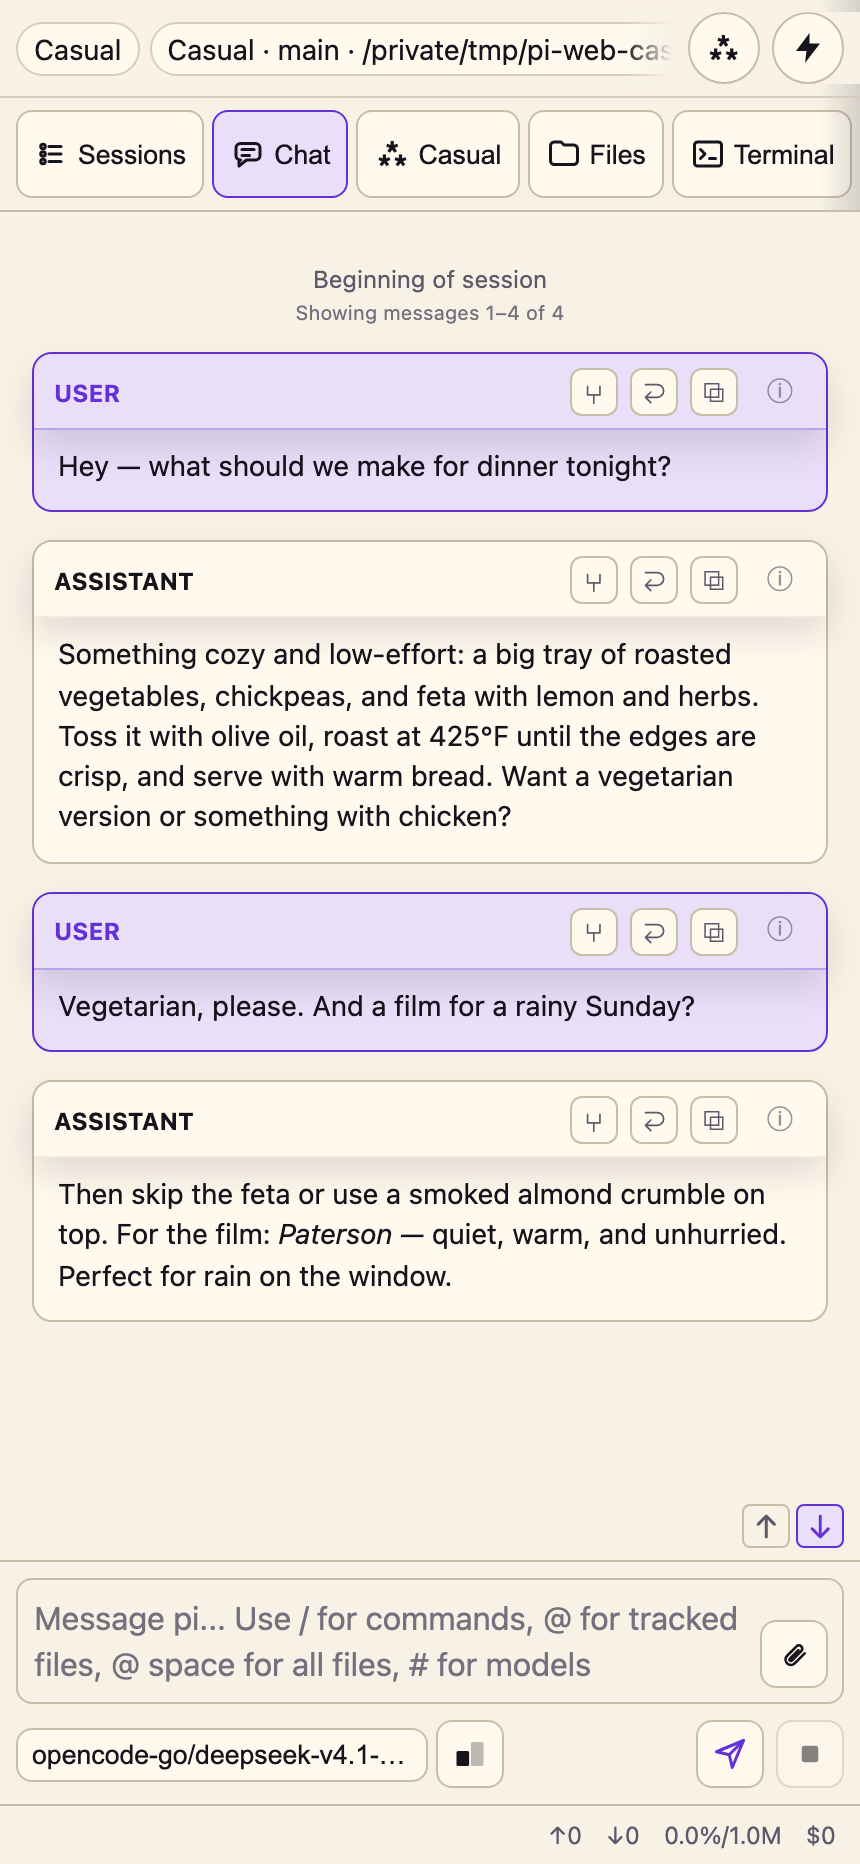
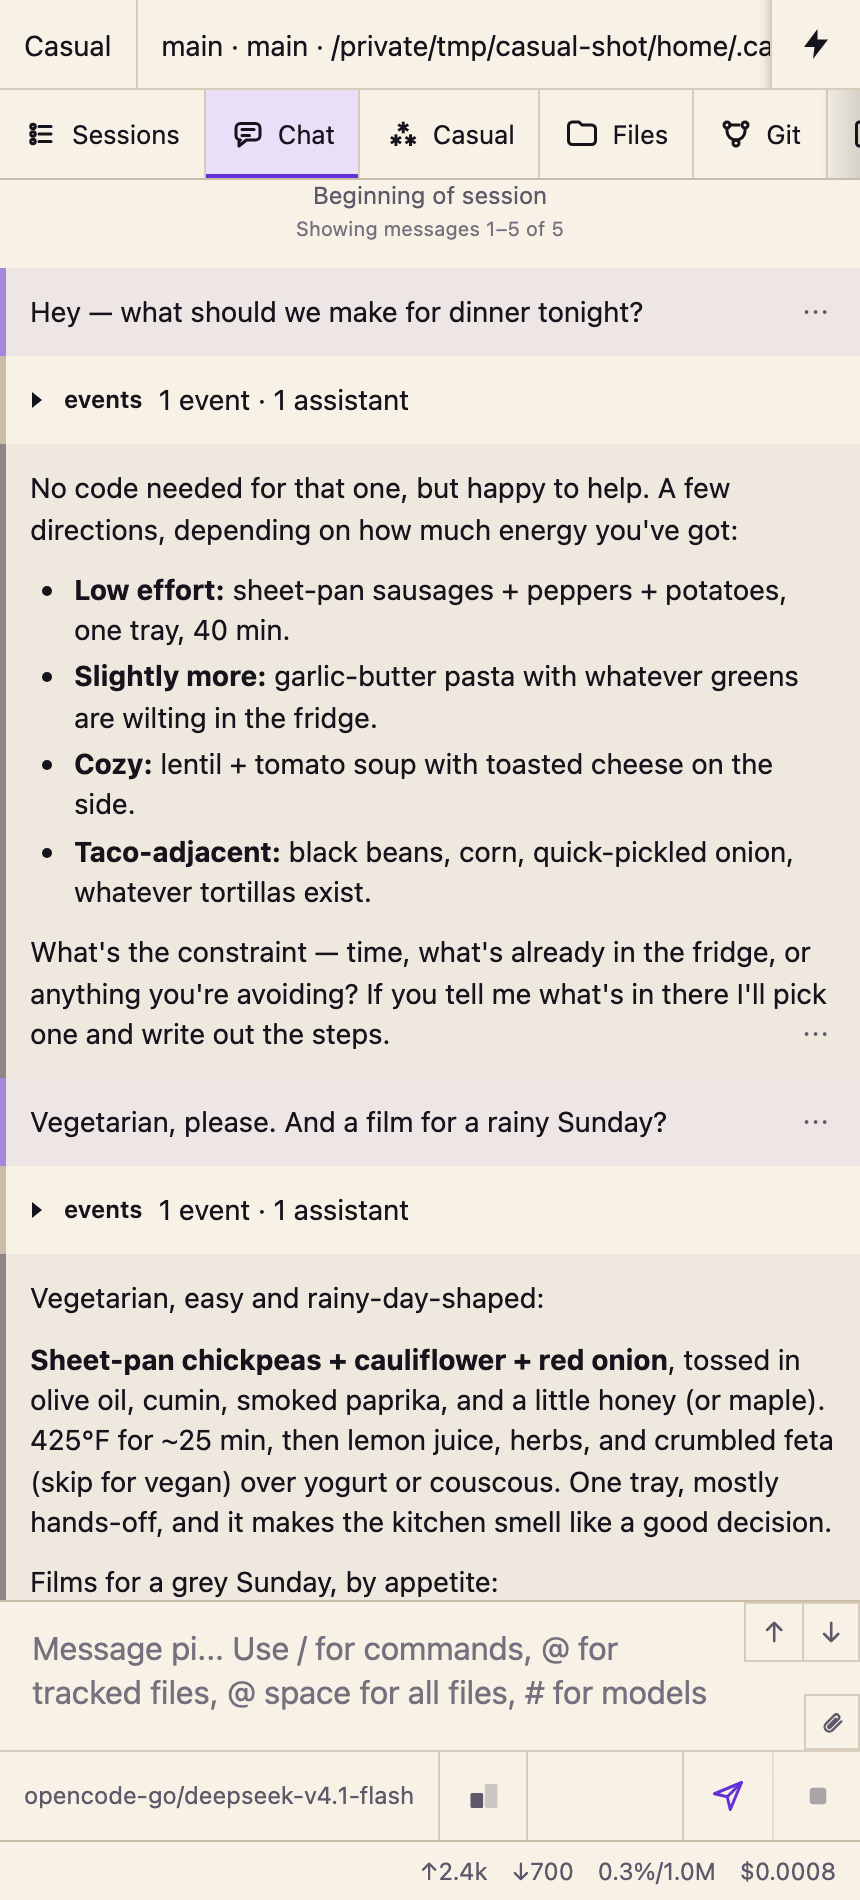
fix: refuse hosts below PI WEB 1.202610.3 and refresh screenshots
PI WEB 1.202610.1 also accepts apiVersion 4, but exposes no application
panels, selection service, or project discovery. The plugin installed,
looked active, and registered palette actions that could never open a
chat. Activation now throws a named error when the selection service is
absent; PI WEB has no install-time host-version gate, so activation is the
earliest enforceable point.

- add the activation guard in src/browser/index.ts and rebuild dist
- document the enforced floor in README, how-it-works, recovery, CHANGELOG
- replace the 0.1.0 screenshots with the current tab UI: a project chat
  beside the Casual conversation on desktop, and Casual's mobile chat

Changed region(s): [[0.0, 0.0, 1.0, 0.9957], [0.6047, 0.9646, 0.6651, 0.9957]]

diff --git a/dist/browser/index.js b/dist/browser/index.js
@@ -1,10 +1,31 @@
 import { changeCasualHome, newCasualChat, openCasual, openCasualInOwnTab, resetCasualLink, runtimeOpenContext, setSelectionService, } from "./casual.js";
 import { startCasualHostBridge } from "./dom.js";
 import { renderPanel } from "./panel.js";
+/**
+ * Oldest PI WEB with the browser v4 surface Casual is built on: application
+ * panels, the selection service, and project discovery. `1.202610.1` also
+ * accepts `apiVersion: 4`, but exposes none of them.
+ */
+const MINIMUM_PI_WEB_VERSION = "1.202610.3";
+/**
+ * PI WEB has no install-time host-version gate for browser plugins, so the
+ * earliest loud failure is activation. Throwing here keeps an unsupported host
+ * from registering a half-working plugin (no tab, dead palette actions) and
+ * puts the reason in the host's "Failed to register PI WEB plugin ... during
+ * activate" diagnostic instead of a silent no-op.
+ */
+function requireSupportedHost(context) {
+    if (context.selection === undefined) {
+        throw new Error(`PI WEB Casual requires PI WEB ${MINIMUM_PI_WEB_VERSION} or newer. ` +
+            "This host predates the browser plugin selection service and application panels, " +
+            "so Casual has nothing to render. Update PI WEB, then reload the browser.");
+    }
+}
 const plugin = {
     apiVersion: 4,
     name: "PI WEB Casual",
     activate: (context) => {
+        requireSupportedHost(context);
         setSelectionService(context.selection);
         startCasualHostBridge(context.lifetimeSignal);
         const actions = [

diff --git a/src/browser/index.ts b/src/browser/index.ts
@@ -16,10 +16,35 @@ import {
 import { startCasualHostBridge } from "./dom.js";
 import { renderPanel } from "./panel.js";
 
+/**
+ * Oldest PI WEB with the browser v4 surface Casual is built on: application
+ * panels, the selection service, and project discovery. `1.202610.1` also
+ * accepts `apiVersion: 4`, but exposes none of them.
+ */
+const MINIMUM_PI_WEB_VERSION = "1.202610.3";
+
+/**
+ * PI WEB has no install-time host-version gate for browser plugins, so the
+ * earliest loud failure is activation. Throwing here keeps an unsupported host
+ * from registering a half-working plugin (no tab, dead palette actions) and
+ * puts the reason in the host's "Failed to register PI WEB plugin ... during
+ * activate" diagnostic instead of a silent no-op.
+ */
+function requireSupportedHost(context: PluginActivationContext): void {
+  if (context.selection === undefined) {
+    throw new Error(
+      `PI WEB Casual requires PI WEB ${MINIMUM_PI_WEB_VERSION} or newer. ` +
+        "This host predates the browser plugin selection service and application panels, " +
+        "so Casual has nothing to render. Update PI WEB, then reload the browser.",
+    );
+  }
+}
+
 const plugin: PiWebPlugin = {
   apiVersion: 4,
   name: "PI WEB Casual",
   activate: (context: PluginActivationContext) => {
+    requireSupportedHost(context);
     setSelectionService(context.selection);
     startCasualHostBridge(context.lifetimeSignal);
 

diff --git a/README.md b/README.md
@@ -4,9 +4,7 @@ A PI WEB plugin that adds one long-running conversation that is not attached to 
 
 **Status:** implemented (v1). Browser-only plugin: one project-free chat, opened from the Casual tab or the action palette. It has no server entry and needs no session-daemon restart.
 
-![Casual on desktop: the Casual tab, a native chat, and a sidebar with the Casual project hidden](docs/assets/desktop.png)
-
-<sub>The screenshots predate this change: the ⁂ button they show beside **Actions** has been removed.</sub>
+![Casual on desktop: a project chat in the main column and the Casual conversation open beside it in the Casual tab, with the Casual project hidden from the sidebar](docs/assets/desktop.png)
 
 ## What Casual does
 
@@ -35,6 +33,8 @@ It behaves like this:
 - PI WEB `1.202610.3` or newer (browser plugin API v4). Tested against `@jmfederico/pi-web` 1.202610.3.
 - Node.js 22.19 or newer only if you build from source. Installing the published package needs no toolchain.
 - No session-daemon restart at any point.
+
+PI WEB has no install-time version gate for plugins, so an older host installs the package and then refuses it at activation. The browser console shows `PI WEB Casual requires PI WEB 1.202610.3 or newer`, and no Casual tab is registered.
 
 ### From GitHub
 
@@ -65,7 +65,7 @@ The reload is one-time. PI WEB has no plugin API for registering a project, so C
 
 If those requests are unreachable, the panel shows a setup card instead: add `~/.casual-pi-web` yourself through **Add Project**, or choose an already-registered project as the home.
 
-![Casual on mobile: the Casual tab in the mobile tab bar and a native chat](docs/assets/mobile.png)
+![Casual on mobile: the casual conversation open in PI WEB's mobile chat layout, with Casual in the tab bar](docs/assets/mobile.png)
 
 ## Use
 
@@ -94,7 +94,7 @@ While the conversation is open, the **Casual** project is the selected project, 
 - **The embedded chat is framed, not native to the panel.** PI WEB's plugin API exposes no transcript component, so the Casual tab embeds the app's chat route in a same-origin frame and hides that frame's chrome. The frame is supervised, not trimmed once: it boots its own SPA, so the chrome keeps being hidden as the frame renders. A frame is also a second client instance with its own daemon connection.
 - **Best-effort chrome.** PI WEB has no contribution point for hiding a project row or for a chat-only layout, so the hidden row and the embedded frame's chrome trimming depend on PI WEB's private shadow DOM. If an update changes that markup, the Casual tab and the palette keep working and the selectors need work in [`src/browser/dom.ts`](src/browser/dom.ts).
 - **Project registration is not public API.** First run uses the host's own endpoints. If PI WEB changes them, first run falls back to the setup card.
-- **API v4 only.** PI WEB `1.202610.6+` logs a deprecation warning for every API-v4 plugin, including its own bundled plugins. Moving to API v5 would drop `1.202610.3` support.
+- **API v4 only, PI WEB `1.202610.3` or newer.** Older hosts accept the package but Casual refuses to activate, because they lack application panels, the selection service, and project discovery. PI WEB `1.202610.6+` logs a deprecation warning for every API-v4 plugin, including its own bundled plugins. Moving to API v5 would drop `1.202610.3` support.
 - **No deletion.** Casual does not delete sessions, workspaces, or the home project. Manage history in **Sessions**.
 - **No telemetry.** No analytics, no third-party calls, no server process. Messages go to the model provider you configured for PI WEB.
 
@@ -103,7 +103,7 @@ While the conversation is open, the **Casual** project is the selected project, 
 A browser-only PI WEB plugin package. There is no server entry, no Pi extension, and no agent client: the plugin resolves the home project, remembers a session for each side of the toggle, and navigates into PI WEB's native chat.
 
 - Browser bundle in `dist/browser`, served by PI WEB directly from the installed package.
-- Browser API v4, with the public **catalog** used on `1.202610.6+` and the selection service on `1.202610.3`.
+- Browser API v4, with the public **catalog** used on `1.202610.6+` and the selection service on `1.202610.3`; activation throws on hosts that lack the selection service.
 - Per-machine pointer in `localStorage` (`pi-web-casual:store:v2`), holding the casual project, workspace, and session.
 - Shadow-DOM integration isolated in `src/browser/dom.ts`.
 

diff --git a/CHANGELOG.md b/CHANGELOG.md
@@ -15,6 +15,11 @@
 - **Removed the header ⁂ button.** The Casual tab and the palette are the entry points now, so nothing is injected beside **Actions** on desktop or mobile. The button's toggle, the per-machine return point, and the close-on-⁂ behavior in the separate window are gone with it; the separate window stays as a palette action and behaves like any other tab.
 - **The Casual tab is its own view.** Clicking it renders the Casual card and leaves you there; it no longer redirects into the chat. The conversation opens from **Open chat** on the card, **⁂**, or the palette, and the card now shows the remembered session's name and location instead of a generic greeting. Mount-time auto-open is gone (`shouldAutoOpenOnMount` and the tab-click intent listener are removed); only an explicit control sets a short-lived open intent.
 - Documentation is now organized by reader: `README.md` for install, first run, task table, limits, and a decisions index; `docs/using-casual.md` for the user path; `docs/how-it-works.md` for internals; `GLOSSARY.md` and `docs/adr/` for vocabulary and decisions.
+- **README screenshots are current.** The desktop image shows a project chat in the main column with the Casual conversation open beside it in the Casual tab, and the Casual project hidden from **Projects**; the mobile image shows the casual chat in PI WEB's mobile layout. Both replace the 0.1.0 captures that still showed the removed header **⁂** button.
+
+### Fixed
+
+- **Older hosts fail loudly instead of silently.** Activation now checks for PI WEB's browser selection service and throws `PI WEB Casual requires PI WEB 1.202610.3 or newer` when it is missing. PI WEB `1.202610.1` accepts the plugin's `apiVersion: 4` but has no application panels, selection service, or project discovery, so it used to install, report the plugin as active, and register palette actions that could never open a chat. PI WEB has no install-time host-version gate, so activation is the earliest enforceable point; the host reports the failure as `Failed to register PI WEB plugin pi-web-casual during activate` and registers no contributions.
 
 ## [0.2.0](https://github.com/paradise-runner/pi-web-casual/compare/v0.1.0...v0.2.0) (2026-10-22)
 

diff --git a/docs/how-it-works.md b/docs/how-it-works.md
@@ -93,6 +93,8 @@ PI WEB exposes no contribution point for hiding a project row or for a chat-only
 
 Browser API **v4**, so Casual runs on PI WEB `1.202610.3` and `1.202610.6+`. PI WEB `1.202610.6+` logs a deprecation warning for every API-v4 plugin, including its own bundled plugins; moving to API v5 would drop `1.202610.3` support. There is no server entry, no Pi extension, no analytics, and no third-party service.
 
+The floor is enforced at activation, not at install: PI WEB's manifest has no host-version field, so it is the earliest point the plugin runs. `activate` throws when the host does not expose the browser selection service, which also catches `1.202610.1` — that release accepts `apiVersion: 4` but has no application panels, selection service, or project discovery, so the tab could never render. The host reports the throw as `Failed to register PI WEB plugin pi-web-casual during activate`, and none of the palette actions are registered.
+
 ## Source layout
 
 | Path | Purpose |

diff --git a/docs/using-casual.md b/docs/using-casual.md
@@ -81,6 +81,7 @@ Either way the new session becomes the one the tab embeds, and the previous conv
 
 | Situation | What to do |
 | --- | --- |
+| Casual never appears after install | PI WEB is older than `1.202610.3`. The browser console shows `PI WEB Casual requires PI WEB 1.202610.3 or newer`; update PI WEB, then reload the browser. |
 | The conversation seems gone | Open Casual again. It prefers the remembered session and otherwise takes the newest non-archived session in the home. |
 | The remembered session was archived or deleted | Same: opening Casual replaces the stale pointer with the newest live session. |
 | The card keeps showing an error | **Retry** once, then **Reset link**, then reopen. |
